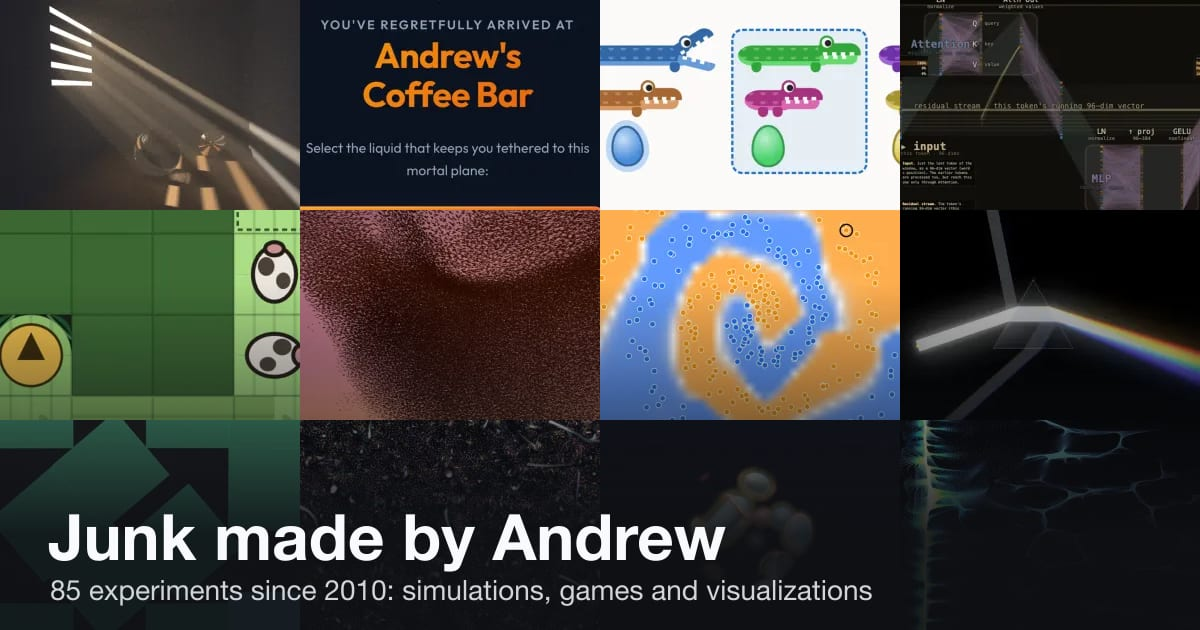
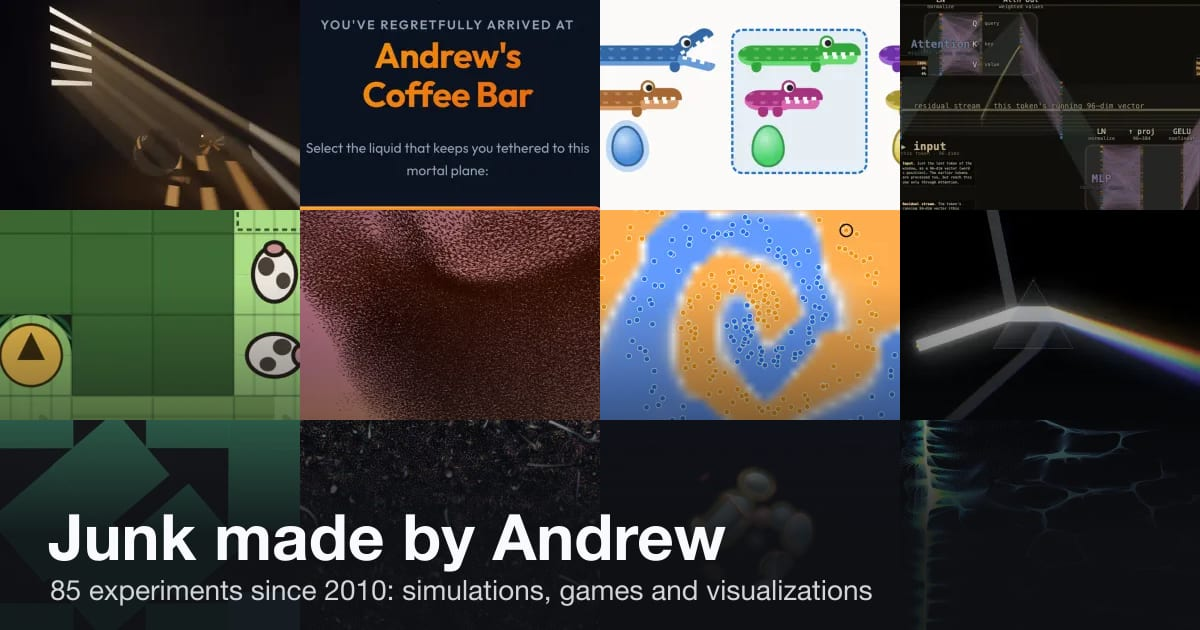
anotherRaytracer: README for editing, the denoiser and bounded fog; CLAUDE.md; new screenshot
The README covers editing objects, phone gestures, the denoiser, fog ending
at the scene's surfaces, smudges as haze, and what's in Advanced. CLAUDE.md
records the 8-storage-buffer limit, how to measure speed and correctness,
and the measured changes. The screenshot is shafts as it renders now, darker
without the outside fog's haze.

Changed region(s): [[0.0, 0.0, 0.2775, 0.3317]]

diff --git a/anotherRaytracer/README.md b/anotherRaytracer/README.md
@@ -1,6 +1,6 @@
 Another Raytracer - 2026 - A WebGPU path tracer with fog, rainbow glass, and depth of field.
 
-A progressive path tracer in a WebGPU compute shader: spheres and flat plates, with diffuse, glossy, mirror, brushed metal, glass and light materials. Drag to orbit, shift-drag or right-drag to pan, scroll to zoom, and click to focus. The panel switches scenes and changes everything else; the view and any settings that differ from the defaults are kept in the URL, so the address bar is a shareable link. **save image** downloads a PNG.
+A progressive path tracer in a WebGPU compute shader: spheres and flat plates, with diffuse, glossy, mirror, brushed metal, glass and light materials. Drag to orbit, shift-drag or right-drag to pan, scroll to zoom. On a phone, pinch to zoom and drag two fingers to pan. Click or tap anything to select it and focus on it. The panel switches scenes and changes the rest; the view, any edits, and any settings that differ from the defaults are kept in the URL, so the address bar is a shareable link. **save image** downloads a PNG.
 
 Scenes:
 
@@ -13,23 +13,29 @@ Scenes:
 - **sunset**: balls on a plain with long shadows, a low sun, a physically based sky, and hazy air that glows around the sun
 - **rgb**: a red, a green and a blue light in light fog, casting cyan, magenta and yellow shadows that overlap into red, green, blue and black, of a floating ball, two posts, and glass and mirror balls
 
+Editing: the **Objects** folder edits whatever you've selected (it's outlined in gold). Turn it into paint (with a gloss coat), metal, glass or a light, and change its color, roughness, brightness or size. Drag a selected ball to slide it around. **add a ball** drops a random one near the middle of the view, **delete** (or Backspace) removes the selection, and **undo all edits** puts the scene back. Only balls can be lights, and walls and floors don't drag, so dragging them still orbits.
+
 How it renders:
 
-- Each bounce aims a shadow ray at one light, picked by how bright it looks from there, and also bounces at random. Multiple importance sampling weighs the two so each covers where the other is noisy.
-- **fog** scatters light, so beams of light show up in it. **fog scatters forward** makes it scatter mostly onward, like real haze, so it glows brightest looking toward a light. **fog blue** makes it scatter blue more than red, like air, for a blue sky and an orange sun. On rays the camera sees directly, equiangular sampling also checks the fog closest to a light, where its glow is brightest, so halos around lights clear up quickly.
-- Glossy coats reflect more toward grazing angles, like real gloss, so balls get bright rims. Mirrors can be rough, for brushed metal. Colored glass absorbs light as it goes through, so thick parts are deeper colored than thin edges.
+- Each bounce aims a shadow ray at one light, picked by how bright it looks from there, and also bounces at random. Multiple importance sampling weighs the two so each covers where the other is noisy. Paths end at random once they carry little light (Russian roulette).
+- **fog** fills the scene out to its surfaces and scatters light, so beams show up in it. A ray that hits nothing has left the fog. **fog scatters forward** makes it scatter mostly onward, like real haze, so it glows brightest looking toward a light. **fog blue** makes it scatter blue more than red, like air, for a blue sky and an orange sun. On rays the camera sees directly, equiangular sampling also checks the fog closest to a light, where its glow is brightest, so halos around lights clear up quickly.
+- Glossy coats reflect more toward grazing angles, like real gloss, so balls get bright rims. Metal can be rough, for brushed metal. Colored glass absorbs light as it goes through, so thick parts are deeper colored than thin edges.
 - **glass dispersion**: the first time a path refracts, it follows one random wavelength, which bends by its own amount, so glass casts rainbow-edged caustics.
 - **depth of field** traces rays from random points on a lens, focused at the distance you click.
-- **surface detail**: nothing real is perfectly even, so gradient noise varies surfaces a little. Paint has bumps in several sizes, so it looks smooth from a distance and textured up close, and glass and mirrors have smudged patches that blur what they reflect. Its size follows the scene's.
+- **surface detail**: nothing real is perfectly even, so gradient noise varies surfaces a little. Paint has bumps in several sizes, so it looks smooth from a distance and textured up close. Glass and mirrors have smudged patches, a thin film that scatters up to a third of the light a few degrees off course, so through a smudge things look hazy and bright things have a soft glow. Its size follows the scene's.
 - **lens glow**: like a real lens, a small fraction of the light spreads into a soft halo, which shows around lights and glints. Lights are clamped to the screen's brightest, but the glow gets the light that clamp removes, so a light thousands of times brighter than white glows like one.
 - The first few random choices of each sample come from a scrambled Sobol sequence, which spreads samples more evenly than plain random numbers, so noise fades faster.
-- Adaptive sampling: every 8×8 tile gets at least 32 samples, then stops once its estimated noise is below the **noise target**. Noise is measured in each color channel as displayed, so speckles that differ only in color, or that show in areas brighter than white, still count. **show refining tiles** highlights the ones still going.
+- **denoise** (d): an edge-avoiding wavelet filter guided by variance (SVGF, without the temporal part). It averages each pixel with neighbors that saw the same surface (by color, normal and distance, seen through mirrors) and whose brightness differs by no more than the noise could explain. Each pixel's noise is known exactly from its samples' spread, so as it fades, the filter stops averaging, and the image becomes the plain average of the samples. At 64 samples, the denoised image is closer to a 4096-sample render than the raw image at 512. It only changes what's shown, and the stats say when it's on.
+- Adaptive sampling: every 8×8 tile gets at least 32 samples, then stops once its estimated noise is below the **noise target** (in Advanced). Noise is measured in each color channel as displayed, so speckles that differ only in color, or that show in areas brighter than white, still count. **show refining tiles** highlights the ones still going.
 - HDR screens show lights brighter than white (in Safari; Chrome on macOS clips them). On SDR screens, the **SDR tone curve** (**t** cycles it) is filmic by default: AgX, as in Blender, with a punchy look, which rolls off shadows and highlights like film. **ease into white** keeps bright colors' hue until they're far brighter than white, so a bright orange light still looks orange; **clip** just clips. Colors far brighter than white wash out toward white, so lights and their reflections in glass and mirrors have white-hot cores.
 - **vignette** darkens the corners, as light reaching them through a real lens falls off as cos⁴ of its angle.
 - Sky domes are lights colored by a physically based sky (Nishita's): sunlight scattered by air, which scatters blue most, and by haze, which glows around the sun. Ozone keeps the sky blue overhead at sunset. It's computed once per scene into a table the shader looks up by direction.
 - Out-of-focus lights spread into discs that stay as bright as they should.
+- Screens narrower than 5:4, like a phone held upright, show more of the scene vertically instead of cropping its sides.
 
-- `main.js` – WebGPU setup, the frame loop, camera, controls, and the lil-gui panel
-- `shaders.js` – the path tracer, adaptive sampling, and display shaders (WGSL)
+**Advanced** has the knobs for comparing methods and trading speed for accuracy: the sampling method (MIS, only aiming at lights, or only random bounces, which the veach scene contrasts), the indirect clamp, pixel scale, noise target, max samples, HDR headroom, and refining tiles.
+
+- `main.js` – WebGPU setup, the frame loop, camera, controls, editing, and the lil-gui panel
+- `shaders.js` – the path tracer, adaptive sampling, denoiser and display shaders (WGSL)
 - `scenes.js` – the scenes, and packing them for the GPU
 - `sky.js` – the physically based sky

diff --git a/anotherRaytracer/CLAUDE.md b/anotherRaytracer/CLAUDE.md
@@ -1,0 +1,20 @@
+# anotherRaytracer
+
+- Andrew prefers simple code whose behavior emerges from accurate basics. Light tracing for caustics was added and removed (65746d4): two estimators had to agree on which paths each counted, and one-sided walls broke that. Prefer display-side or single-estimator changes.
+- The trace shader binds 8 storage buffers, WebGPU's default per-stage limit, and phones may not offer more. Pack new per-pixel data into spare channels (the selected-object id rides in `albedoSums.w`) rather than adding a buffer.
+- `Params` in shaders.js and the `paramsF32`/`paramsU32` slots in main.js must match, including the buffer size (a multiple of 16 bytes).
+- `filter` and `common` are reserved words in WGSL. WGSL `max` takes two arguments.
+- Shader compile errors and uncaptured GPU errors show in the stats line, so a blank or frozen image with no message there is a logic bug, not a GPU error.
+- Scene edits live in the URL as differences from `scene.objects` by index (see `editsParam`), so reordering or removing objects in a scene's definition changes what old links show.
+
+## Measuring
+
+- The stats' spp/s includes shader compile time. Compare speed by the change in spp between two readings a few seconds apart, with `noise=0` so adaptive sampling doesn't stop tiles. Headless Chrome via Playwright (`channel: 'chrome'`, `--enable-unsafe-webgpu`) runs WebGPU on the real GPU.
+- Check correctness by rendering to a fixed `spp` with `noise=0` and comparing mean brightness against the previous version; a faster change that shifts the mean is a bug unless it's meant to change the look.
+
+## Measured (M4, 800x500, spp/s)
+
+- Fog used to fill all of space, so rays escaping an open scene scattered on through endless fog. Ending fog at the farthest surface: rgb 28 -> 125, shafts 39 -> 58. Shafts lost a warm haze that came from sunlit fog outside its open front.
+- Russian roulette by throughput instead of surface color: cornell 44 -> 107, same converged brightness.
+- Surface detail used to cost 1.5-3x (mirrors 144 vs 435 without it). A single pcg3d hash per lattice point, plus computing smudges only for the first bounces and only when the random choice could use them, brought mirrors to 308 vs 430. The bumps' noise is the rest; Andrew wants the detail to look good, so it stays.
+- The denoiser every frame cost about 12%. Running it every frame below 64 spp and every 150 ms after brought that to 1-4%.
